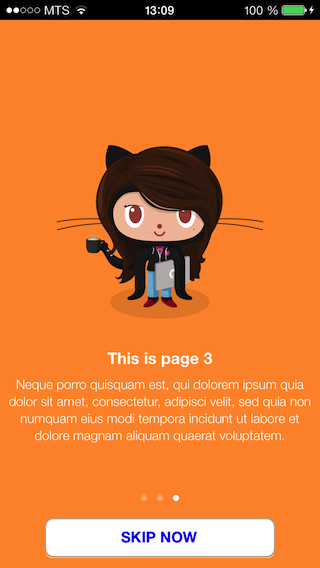
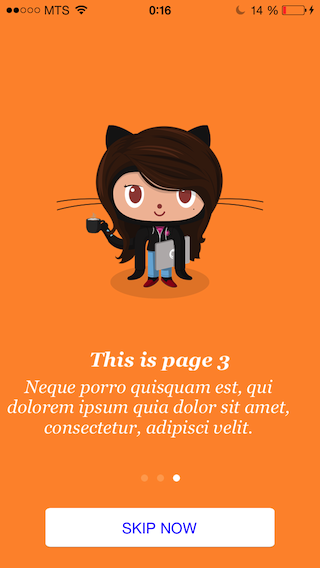
README update for 1.1.0

diff --git a/README.md b/README.md
@@ -17,12 +17,18 @@ This control is inspired by [MYIntroductionView](https://github.com/MatthewYork/
 License: MIT.
 
 ##CocoaPods
-Will add CocoaPods instructions as soon as control is approved in official repo.
+
+[CocoaPods](http://cocoapods.org/) is the recommended way to use EAIntroView in your project. 
+
+* Simply add this line to your `Podfile`: `pod 'EAIntroView', '~> 1.1.0'`
+* Run `pod install`.
+* Include with `#import "EAIntroView.h"` to use it wherever you need.
+* Subscribe to the `EAIntroDelegate` to enable delegate/callback interaction.
 
 ##Manual installation
 
-* add `EAIntroPage` and `EAIntroView` headers and implementations to your project (4 files total)
-* `#import "EAIntroView.h"` to use it in a class
+* Add `EAIntroPage` and `EAIntroView` headers and implementations to your project (4 files total).
+* Include with `#import "EAIntroView.h"` to use it wherever you need.
 * Subscribe to the `EAIntroDelegate` to enable delegate/callback interaction.
 
 ##How To Use It
@@ -45,10 +51,11 @@ Custom
 ```objc
 EAIntroPage *page3 = [EAIntroPage page];
 page3.title = @"This is page 3";
+page3.titleFont = [UIFont fontWithName:@"Georgia-BoldItalic" size:20];
 page3.titlePositionY = 220;
-page3.desc = @"Neque porro quisquam est, qui dolorem ipsum quia dolor sit amet, consectetur, adipisci velit, sed quia non numquam eius modi tempora incidunt ut labore et dolore magnam aliquam quaerat voluptatem.";
+page3.desc = @"Neque porro quisquam est, qui dolorem ipsum quia dolor sit amet, consectetur, adipisci velit.";
+page3.descFont = [UIFont fontWithName:@"Georgia-Italic" size:18];
 page3.descPositionY = 200;
-page3.bgImage = [UIImage imageNamed:@"3"];
 page3.titleImage = [UIImage imageNamed:@"femalecodertocat"];
 page3.imgPositionY = 100;
 ```    
@@ -67,10 +74,10 @@ Custom
 ```objc
 EAIntroView *intro = [[EAIntroView alloc] initWithFrame:self.view.bounds andPages:@[page1,page2,page3]];
 intro.backgroundColor = [UIColor colorWithRed:1.0f green:0.58f blue:0.21f alpha:1.0f]; //iOS7 orange    
-intro.pageControlY = 80.0f;    
+intro.pageControlY = 100.0f;    
 UIButton *btn = [UIButton buttonWithType:UIButtonTypeRoundedRect];
 [btn setBackgroundImage:[UIImage imageNamed:@"skipButton"] forState:UIControlStateNormal];
-[btn setFrame:CGRectMake((320-230)/2, [UIScreen mainScreen].bounds.size.height - 70, 230, 40)];
+[btn setFrame:CGRectMake((320-230)/2, [UIScreen mainScreen].bounds.size.height - 60, 230, 40)];
 [btn setTitle:@"SKIP NOW" forState:UIControlStateNormal];
 [btn setTitleColor:[UIColor blueColor] forState:UIControlStateNormal];
 intro.skipButton = btn;
